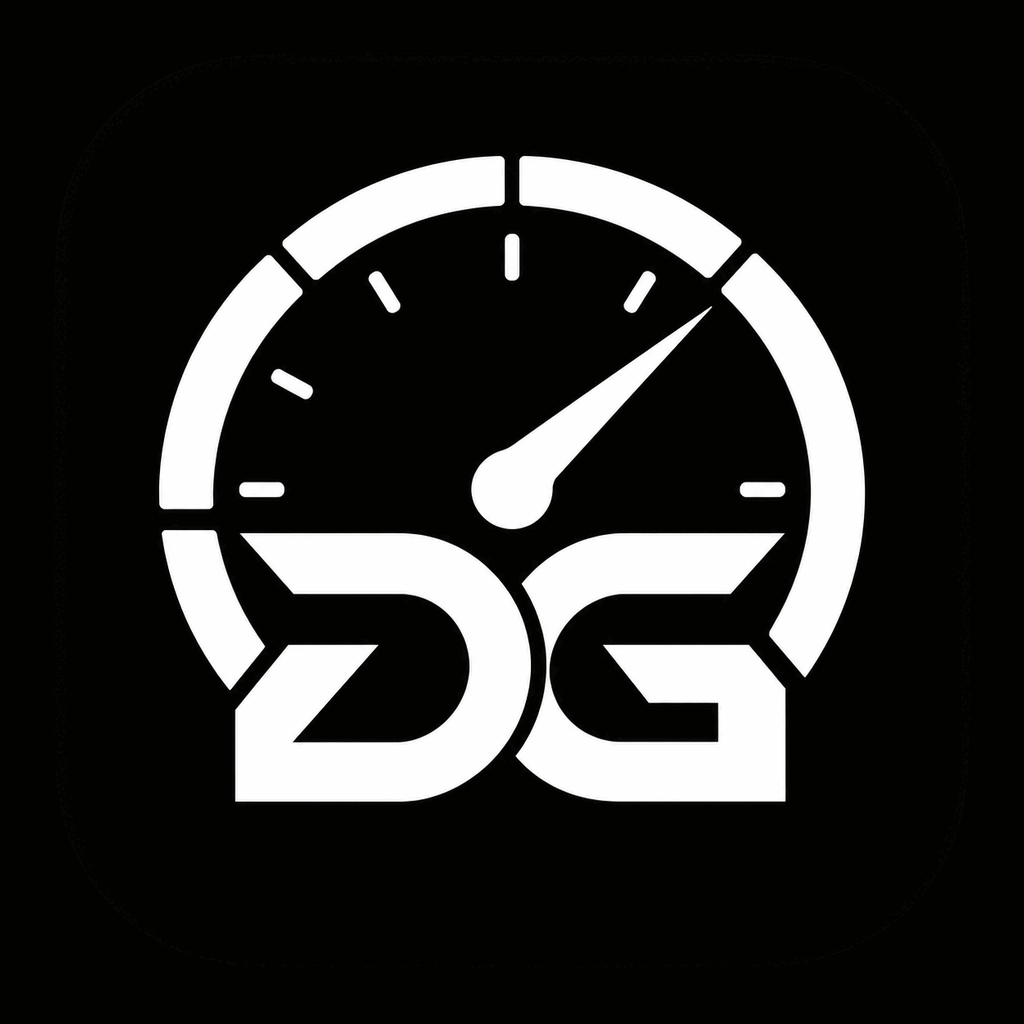
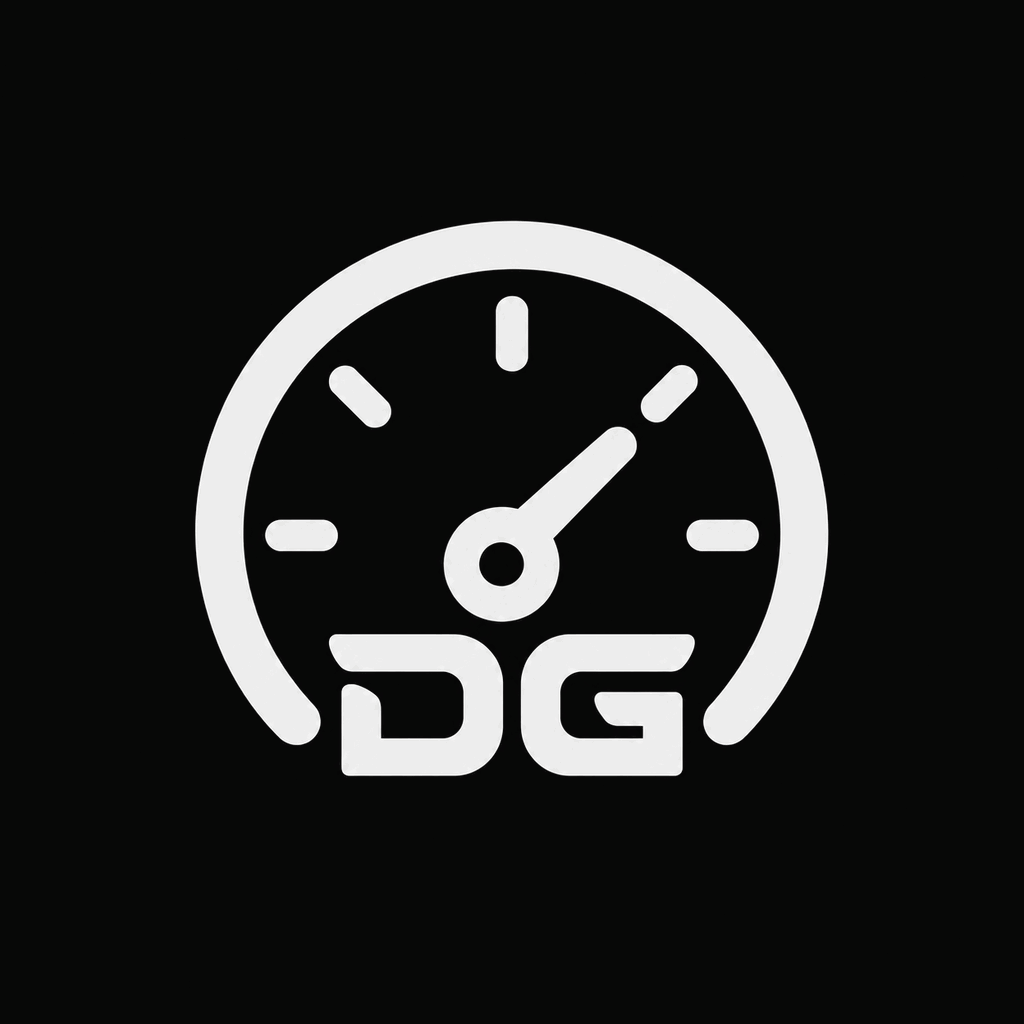
Refresh DevGauge branding and simplify dashboard header

Changed region(s): [[0.1562, 0.1562, 0.8438, 0.7812]]

diff --git a/app/(tabs)/usage.tsx b/app/(tabs)/usage.tsx
@@ -1,22 +1,18 @@
 import { useRouter } from 'expo-router';
-import { useMemo } from 'react';
-import { StyleSheet, Text, View } from 'react-native';
+import { StyleSheet, View } from 'react-native';
 
+import { DevGaugeLockup } from '@/components/brand/devgauge-lockup';
 import { ProviderCard } from '@/components/usage/provider-card';
 import {
   Button,
   EmptyState,
-  Header,
   IconButton,
   Screen,
   ScreenScroll,
   Stack,
 } from '@/components/ui';
-import { radii, spacing } from '@/design/tokens';
-import { useTheme } from '@/design/theme-provider';
 import type { ProviderState } from '@/testing/fixtures/providers';
 import { useProviderViews } from '@/features/dashboard/app-providers';
-import { formatCountdown } from '@/utils/format';
 
 // Usage shows only providers that actually have a connection or data.
 const ACTIVE_STATES: ProviderState[] = [
@@ -28,47 +24,25 @@ const ACTIVE_STATES: ProviderState[] = [
 ];
 
 export default function UsageScreen() {
-  const { theme } = useTheme();
   const router = useRouter();
   const allProviders = useProviderViews();
   const providers = allProviders.filter((provider) =>
     ACTIVE_STATES.includes(provider.state),
   );
 
-  const summary = useMemo(() => {
-    const nearLimit = providers.filter((provider) =>
-      provider.windows.some((window) => (window.percent ?? 0) >= 80),
-    );
-    const resets = providers
-      .flatMap((provider) =>
-        provider.windows.map((window) => window.resetsInMinutes),
-      )
-      .filter((value): value is number => value !== undefined);
-    const nextReset = resets.length > 0 ? Math.min(...resets) : undefined;
-    const needsAttention = providers.filter(
-      (provider) =>
-        provider.state === 'stale' ||
-        provider.state === 'auth-expired' ||
-        provider.state === 'rate-limited' ||
-        provider.state === 'error',
-    );
-    return { nearLimit, nextReset, needsAttention };
-  }, [providers]);
-
   return (
     <Screen>
       <ScreenScroll>
-        <Header
-          title="Usage"
-          subtitle="Connected providers"
-          right={
+        <View style={styles.brandHeader}>
+          <DevGaugeLockup />
+          <View style={styles.actions}>
             <IconButton
               icon="refresh"
               accessibilityLabel="Refresh all providers"
               onPress={() => router.push('/sync')}
             />
-          }
-        />
+          </View>
+        </View>
 
         {providers.length === 0 ? (
           <EmptyState
@@ -84,81 +58,31 @@ export default function UsageScreen() {
             }
           />
         ) : (
-          <>
-            <View
-              style={[
-                styles.summary,
-                {
-                  backgroundColor: theme.colors.surface,
-                  borderColor: theme.colors.border,
-                },
-              ]}
-            >
-              <SummaryStat
-                label="Near limit"
-                value={
-                  summary.nearLimit.length === 0
-                    ? 'None'
-                    : String(summary.nearLimit.length)
+          <Stack gap="md">
+            {providers.map((provider) => (
+              <ProviderCard
+                key={provider.id}
+                provider={provider}
+                onPress={() =>
+                  router.push({
+                    pathname: '/provider/[providerId]',
+                    params: { providerId: provider.id },
+                  })
                 }
               />
-              <SummaryStat
-                label="Next reset"
-                value={formatCountdown(summary.nextReset) ?? '—'}
-              />
-              <SummaryStat
-                label="Attention"
-                value={
-                  summary.needsAttention.length === 0
-                    ? 'None'
-                    : String(summary.needsAttention.length)
-                }
-              />
-            </View>
-
-            <Stack gap="md">
-              {providers.map((provider) => (
-                <ProviderCard
-                  key={provider.id}
-                  provider={provider}
-                  onPress={() =>
-                    router.push({
-                      pathname: '/provider/[providerId]',
-                      params: { providerId: provider.id },
-                    })
-                  }
-                />
-              ))}
-            </Stack>
-          </>
+            ))}
+          </Stack>
         )}
       </ScreenScroll>
     </Screen>
   );
 }
 
-function SummaryStat({ label, value }: { label: string; value: string }) {
-  const { theme, typography } = useTheme();
-  return (
-    <View style={styles.summaryStat}>
-      <Text style={[typography.monoLabel, { color: theme.colors.textPrimary }]}>
-        {value}
-      </Text>
-      <Text style={[typography.caption, { color: theme.colors.textMuted }]}>
-        {label}
-      </Text>
-    </View>
-  );
-}
-
 const styles = StyleSheet.create({
-  summary: {
+  brandHeader: {
     flexDirection: 'row',
     justifyContent: 'space-between',
-    gap: spacing.md,
-    padding: spacing.lg,
-    borderRadius: radii.card,
-    borderWidth: 1,
+    alignItems: 'center',
   },
-  summaryStat: { flex: 1, gap: spacing.xxs },
+  actions: { flexDirection: 'row', alignItems: 'center' },
 });

diff --git a/src/components/brand/devgauge-lockup.tsx b/src/components/brand/devgauge-lockup.tsx
@@ -1,0 +1,50 @@
+import { Image, StyleSheet, Text, View } from 'react-native';
+
+import { radii, spacing } from '@/design/tokens';
+import { useTheme } from '@/design/theme-provider';
+
+const mark = require('../../../assets/adaptive-icon.png');
+
+/** The product lockup used in app chrome; native launcher assets share this mark. */
+export function DevGaugeLockup() {
+  const { theme, typography } = useTheme();
+  return (
+    <View style={styles.row} accessibilityRole="header">
+      <View
+        style={[
+          styles.mark,
+          {
+            backgroundColor:
+              theme.scheme === 'dark'
+                ? theme.colors.surfaceSunken
+                : theme.colors.textPrimary,
+            borderColor: theme.colors.border,
+          },
+        ]}
+      >
+        <Image
+          source={mark}
+          accessibilityLabel="DevGauge"
+          style={styles.image}
+        />
+      </View>
+      <Text style={[typography.heading, { color: theme.colors.textPrimary }]}>
+        DevGauge
+      </Text>
+    </View>
+  );
+}
+
+const styles = StyleSheet.create({
+  row: { flexDirection: 'row', alignItems: 'center', gap: spacing.sm },
+  mark: {
+    width: 44,
+    height: 44,
+    borderRadius: radii.control,
+    borderWidth: 1,
+    alignItems: 'center',
+    justifyContent: 'center',
+    overflow: 'hidden',
+  },
+  image: { width: 42, height: 42 },
+});

diff --git a/README.md b/README.md
@@ -15,7 +15,7 @@ npx expo install --check
 
 To launch the Android development build, start an emulator or connect a device, then run `npm run android` (`expo run:android`). For an EAS build, set up an Expo project and run `eas build --platform android --profile development`. Android development package names and the callback scheme in `app.config.ts` are provisional. Production builds require `ANDROID_PACKAGE` with an owner-approved ID.
 
[2 lines of base64/hex data omitted]
 
 ## Current scope
 
